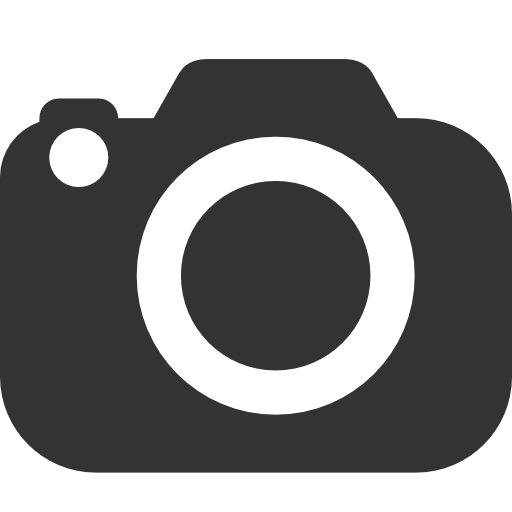
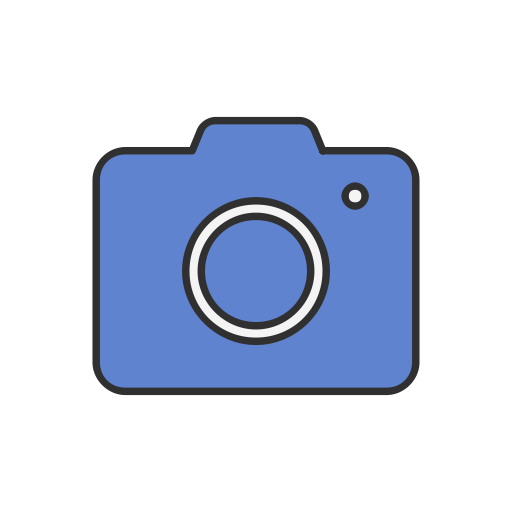
Render a makeshift modal using a ui slice of state to upload a new profile picture

diff --git a/frontend/components/user_profile/user_show.jsx b/frontend/components/user_profile/user_show.jsx
@@ -4,6 +4,7 @@ import PostIndexItemContainer from '../post/post_index_item_container';
 import CreatePostFormContainer from '../post/create_post_form_container';
 import FriendRequest from '../friend/friend_request';
 import FloatingNavBarContainer from '../floating_nav_bar/floating_nav_bar_container';
+import ProPicFormContainer from '../profile_picture/pro_pic_form_container';
 
 class userShow extends React.Component {
   constructor(props) {
@@ -40,43 +41,51 @@ class userShow extends React.Component {
       return <PostIndexItemContainer post={post} key={post.id}/>;
     });
     return (
-      <div className='user-show-all-content'>
-        <nav>
-          <FloatingNavBarContainer />
-        </nav>
-        <div className='show-page-topper'>
-          <div className='cover-photo-container'>
-            <img src={window.beatles} className='cover-photo'/>
-
-            <nav className='below-cover-nav '>
-              <button className='all-below-cover-buttons timeline-button'>Timeline</button>
-              <button className='all-below-cover-buttons'>About</button>
-              <button className='all-below-cover-buttons'>Friends</button>
-              <button className='all-below-cover-buttons'>Photos</button>
-              <button className='all-below-cover-buttons'>More</button>
-            </nav>
+        <div className='user-show-all-content'>
+          <nav>
+            <FloatingNavBarContainer />
+          </nav>
+          <div className={`modal-${this.props.modal}`}>
+            <ProPicFormContainer />
+            <button onClick={this.props.turnOffModal} className={`modal-${this.props.modal}-button`}>
+            </button>
           </div>
-          <div className='profile-picture-container'>
-            <img src={pageOwner.photoUrl} className='profile-picture'/>
-            <div className='pro-pic-edit-button'></div>
-          </div>
-          <div className='username-f-and-c'>
-            {pageOwner.username}
-          </div>
-          {requestButton}
 
-        </div>
+          <div className='show-page-topper'>
+            <div className='cover-photo-container'>
+              <img src={window.beatles} className='cover-photo'/>
 
-        <main className='show-page-main'>
-
-            <div className='show-page-post-section'>
-              <CreatePostFormContainer pageOwner={pageOwner} />
-              <br /><br />
-              {posts}
+              <nav className='below-cover-nav '>
+                <button className='all-below-cover-buttons timeline-button'>Timeline</button>
+                <button className='all-below-cover-buttons'>About</button>
+                <button className='all-below-cover-buttons'>Friends</button>
+                <button className='all-below-cover-buttons'>Photos</button>
+                <button className='all-below-cover-buttons'>More</button>
+              </nav>
             </div>
-            <br />
-        </main>
-      </div>
+            <div className='profile-picture-container'>
+              <img src={pageOwner.photoUrl} className='profile-picture'/>
+                <button onClick={this.props.turnOnModal} className='pro-pic-edit-button'><img className='pro-pic-camera' src={window.camera_icon} /><p className='update-profile-picture'>Update Profile Picture</p>
+                </button>
+            </div>
+            <div className='username-f-and-c'>
+              {pageOwner.username}
+            </div>
+            {requestButton}
+
+          </div>
+
+          <main className='show-page-main'>
+
+              <div className='show-page-post-section'>
+                <CreatePostFormContainer pageOwner={pageOwner} />
+                <br /><br />
+                {posts}
+              </div>
+              <br />
+
+          </main>
+        </div>
     );
   }
 }

diff --git a/app/assets/stylesheets/user_show/profile_picture.css b/app/assets/stylesheets/user_show/profile_picture.css
@@ -1,0 +1,121 @@
+
+.profile-picture-container {
+  z-index: 1;
+  position: relative;
+  left: 143px;
+  top: -141px;
+  height: 168px;
+  width: 168px;
+  border: 1px solid rgba(0, 0, 0, .15);
+  text-align: center;
+  border-radius: 3px;
+}
+.profile-picture {
+  z-index: 1;
+  position: relative;
+  border: 4px solid white;
+  border-radius: 2px;
+  height: 160px;
+  width: 160px;
+}
+.profile-picture:hover + .pro-pic-edit-button {
+  display: flex;
+}
+.pro-pic-edit-button {
+  display: none;
+  background-color: black;
+  opacity: 0.5;
+  position: relative;
+  width: 150px;
+  height: 50px;
+  margin: 0 auto;
+  top: -61px;
+  z-index: 2;
+  border: none;
+}
+
+.pro-pic-edit-button:hover {
+  display: block;
+  cursor: pointer;
+  opacity: 0.9;
+}
+.pro-pic-edit-button:focus{
+  outline: none;
+ }
+
+.update-profile-picture {
+  font-size: 12px;
+  color: #fff;
+}
+.pro-pic-camera {
+  position: relative;
+  width: 50px;
+  height: 40px;
+  top: 4px
+}
+.upload-pro-pic-all {
+  position: relative;
+  left: 2px;
+  top: 141px;
+  z-index: 8;
+  height: 300px;
+  width: 300px;
+  margin: 0 auto;
+  align-items: center;
+  z-index: 8;
+  background-color: white;
+}
+.upload-pro-pic-all-off {
+  display: none;
+}
+
+
+.modal-on {
+  position: absolute;
+  background: rgba(126, 126, 126, 0.5);
+  width: 100%;
+  height: 100%;
+  z-index: 4;
+  display: block;
+}
+.modal-off {
+  display: none;
+}
+
+.modal-on-button {
+  position: absolute;
+  width: 100%;
+  height: 1000px;
+  z-index: 5;
+  opacity: 0.4;
+  top: -200px;
+}
+.modal-off-button {
+  display: none;
+}
+
+.select-file-button {
+  position: relative;
+  top: 50px;
+  left: 109px;
+  width: 12px;
+  display: block;
+  color: black;
+}
+
+.select-file-submit {
+  position: relative;
+  border: none;
+  background-color: #ebedf0;
+  width: 300px;
+  height: 150px;
+  top: 132px;
+  color: #365899;
+  font-size: 18px;
+}
+
+.select-file-submit:hover {
+  background-color: #365899;
+  color: #ebedf0;
+  cursor: pointer;
+}

diff --git a/frontend/components/user_profile/user_show_container.js b/frontend/components/user_profile/user_show_container.js
@@ -4,13 +4,15 @@ import userShow from './user_show';
 import { fetchUsers, fetchFriends } from '../../actions/user_actions';
 import { fetchNotifications } from '../../actions/notification_actions';
 import { fetchFriendRequests } from '../../actions/friend_actions';
+import { turnOnModal, turnOffModal } from '../../actions/ui_actions';
 
 const msp = (state, ownProps) => {
   return {
     currentUser: state.entities.users.general[state.session.id],
     pageOwner: state.entities.users.general[ownProps.match.params.userId],
     posts: Object.values(state.entities.posts),
-    friendsWith: state.entities.users.friends[ownProps.match.params.userId]
+    friendsWith: state.entities.users.friends[ownProps.match.params.userId],
+    modal: state.ui.modal
   };
 };
 
@@ -20,7 +22,9 @@ const mdp = (dispatch) => {
     fetchUsers: () => dispatch(fetchUsers()),
     fetchNotifications: (user) => dispatch(fetchNotifications(user)),
     fetchFriendRequests: (user) => dispatch(fetchFriendRequests(user)),
-    fetchFriends: (user) => dispatch(fetchFriends(user))
+    fetchFriends: (user) => dispatch(fetchFriends(user)),
+    turnOnModal: () => dispatch(turnOnModal()),
+    turnOffModal: () => dispatch(turnOffModal())
   };
 };
 

diff --git a/app/assets/stylesheets/user_show/user_show_main.css b/app/assets/stylesheets/user_show/user_show_main.css
@@ -1,3 +1,4 @@
+
 .user-show-all-content {
   position: fixed;
   left: 0;
@@ -30,44 +31,7 @@
   border-top: none;
 }
 
-.profile-picture-container {
-  z-index: 1;
-  position: relative;
-  left: 143px;
-  top: -141px;
-  height: 168px;
-  width: 168px;
-  border: 1px solid rgba(0, 0, 0, .15);
-  text-align: center;
-  border-radius: 3px;
-}
-.profile-picture {
-  z-index: 1;
-  position: relative;
-  border: 4px solid white;
-  border-radius: 2px;
-  height: 160px;
-  width: 160px;
-}
-.pro-pic-edit-button {
-  display: none;
-  background-color: black;
-  opacity: 0.5;
-  position: relative;
-  width: 150px;
-  height: 50px;
-  margin: 0 auto;
-  top: -60px;
-  z-index: 2;
-}
-.profile-picture:hover + .pro-pic-edit-button {
-  display: block;
-}
-.pro-pic-edit-button:hover {
-  display: block;
-  cursor: pointer;
-  opacity: 0.8;
-}
+
 .username-f-and-c {
   max-width: 275px;
   font-size: 30px;

diff --git a/frontend/components/profile_picture/pro_pic_form.jsx b/frontend/components/profile_picture/pro_pic_form.jsx
@@ -24,10 +24,14 @@ class ProPicForm extends React.Component {
 
   render() {
     return (
-      <form className='upload-pro-pic-form' onSubmit={this.handleSubmit}>
-        <input type='file' onChange={this.handleChange}/>
-        <input type='submit' value='Update' />
-      </form>
+
+      <div className={`upload-pro-pic-all`}>
+        <form className='upload-pro-pic-form' onSubmit={this.handleSubmit}>
+          <input type='file' className='select-file-button'   onChange={this.handleChange}/>
+          <input type='submit' className='select-file-submit' value='Update' />
+        </form>
+      </div>
+
     );
   }
 };

diff --git a/frontend/components/floating_nav_bar/search.jsx b/frontend/components/floating_nav_bar/search.jsx
@@ -28,7 +28,7 @@ class NavBarSearch extends React.Component {
       <div className='nav-search'>
         <form onSubmit={this.handleSubmit}>
           <input onChange={this.handleChange} className='nav-search-text' type='text' value={this.state.text} placeholder='Search'/>
-          <input type='submit' onClick={this.handleSubmit} className='nav-search-button' value={`${<img src={window.search_mag_glass} className='search=mag-glass' />}`} />
+          <input type='submit' onClick={this.handleSubmit} className='nav-search-button' value='GO!' />
         </form>
       </div>
     );

diff --git a/frontend/reducers/root_reducer.js b/frontend/reducers/root_reducer.js
@@ -2,11 +2,13 @@ import { combineReducers } from 'redux';
 import sessionReducer from './session_reducer';
 import entitiesReducer from './entities_reducer';
 import errorsReducer from './errors_reducer';
+import uiReducer from './ui_reducer';
 
 const rootReducer = combineReducers({
   session: sessionReducer,
   entities: entitiesReducer,
-  errors: errorsReducer
+  errors: errorsReducer,
+  ui: uiReducer
 });
 
 export default rootReducer;

diff --git a/frontend/reducers/ui_reducer.js b/frontend/reducers/ui_reducer.js
@@ -1,0 +1,18 @@
+import { ON_MODAL, OFF_MODAL } from '../actions/ui_actions';
+
+let preState = {
+  modal: 'off'
+}
+
+const uiReducer = (state = preState, action) => {
+  switch (action.type) {
+    case ON_MODAL:
+      return Object.assign({}, state, { modal: 'on' });
+    case OFF_MODAL:
+      return Object.assign({}, state, { modal: 'off' });
+    default:
+      return state;
+  };
+};
+
+export default uiReducer;

diff --git a/frontend/components/profile_picture/pro_pic_form_container.js b/frontend/components/profile_picture/pro_pic_form_container.js
@@ -4,7 +4,8 @@ import ProPicForm from './pro_pic_form';
 
 const msp = (state) => {
   return {
-    currentUser: state.entities.users.general[state.session.id]
+    currentUser: state.entities.users.general[state.session.id],
+    modal: state.ui.modal
   };
 };
 

diff --git a/frontend/actions/ui_actions.js b/frontend/actions/ui_actions.js
@@ -1,0 +1,14 @@
+export const ON_MODAL = 'ON_MODAL';
+export const OFF_MODAL = 'OFF_MODAL';
+
+export const turnOnModal = () => {
+  return {
+    type: ON_MODAL
+  };
+};
+
+export const turnOffModal = () => {
+  return {
+    type: OFF_MODAL
+  };
+};

diff --git a/frontend/components/feed/feed.jsx b/frontend/components/feed/feed.jsx
@@ -43,7 +43,7 @@ class Feed extends React.Component {
             {posts}
           </div>
           <div className='feed-left'>
-            <ProPicFormContainer />
+            
           </div>
           <br />
           <br />

diff --git a/app/assets/stylesheets/comments/comment_index.css b/app/assets/stylesheets/comments/comment_index.css
@@ -1,5 +1,5 @@
 .comment-main {
-  background-color: #ebedf0;;
+  background-color: #ebedf0;
   border: 1px solid #eff1f3;
   border-radius: 20px;
   padding: 14px 14px 10px 14px;
